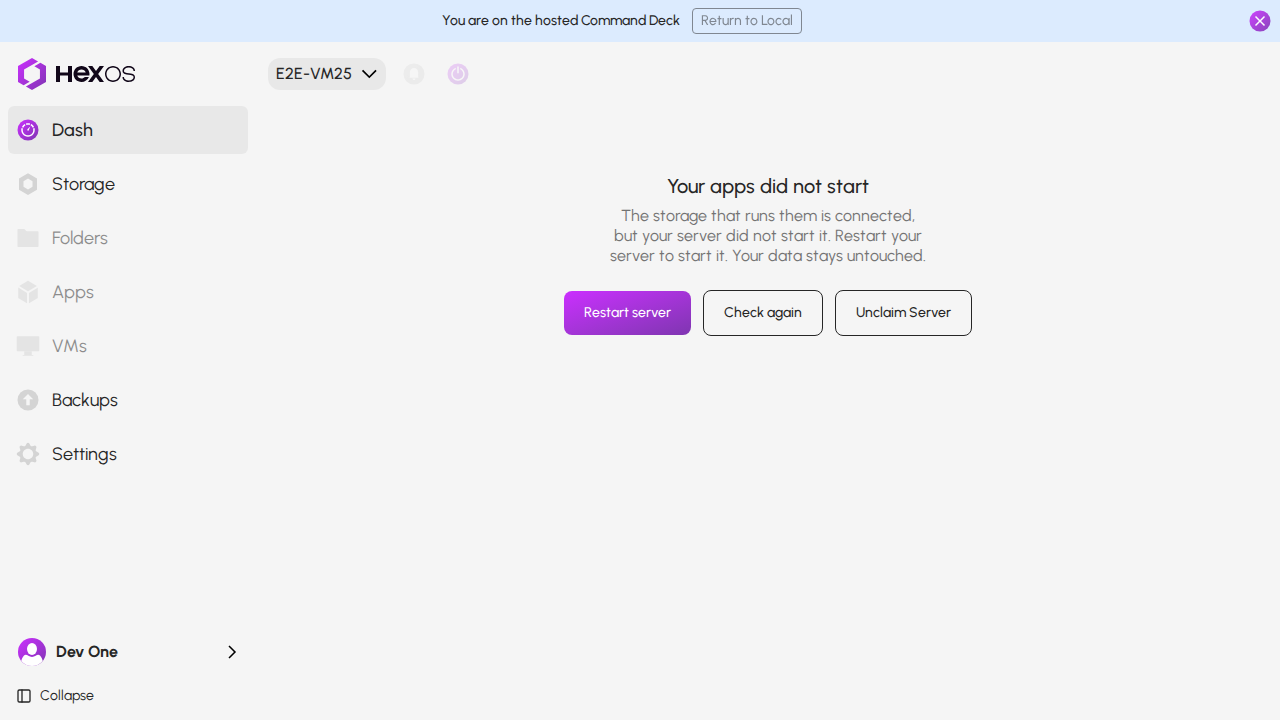
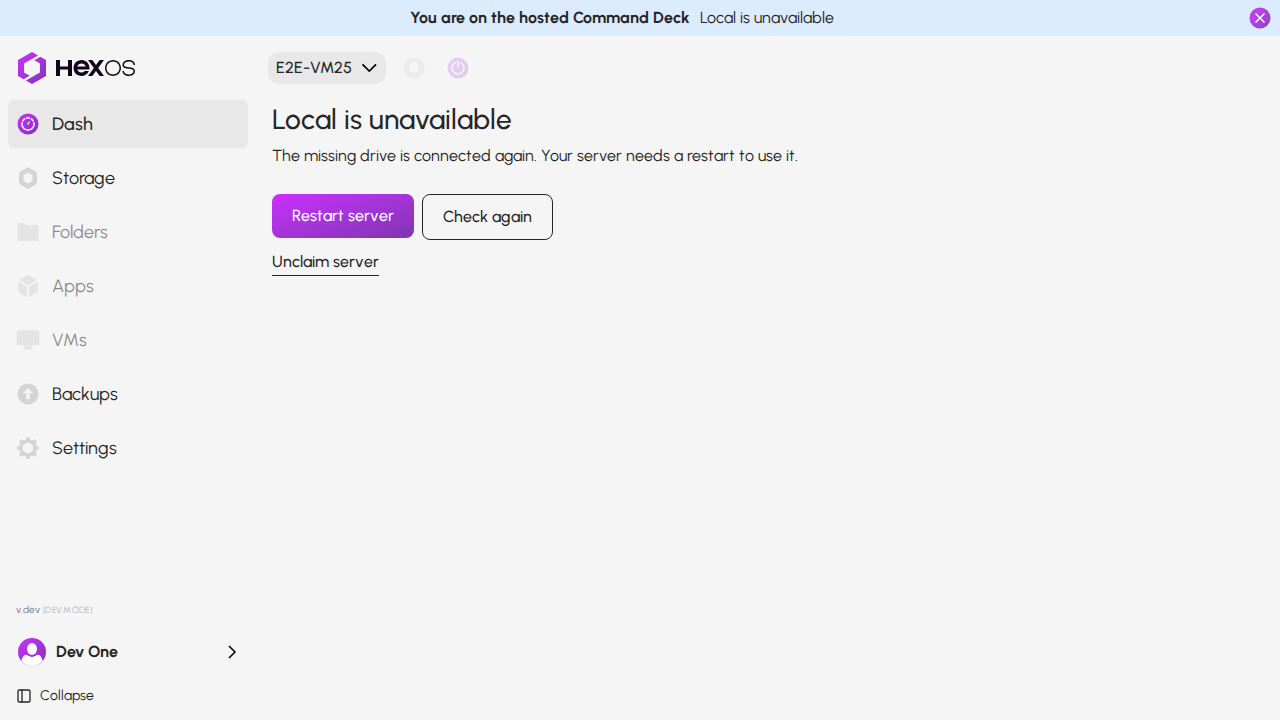
docs: Re-shoot the apps drive failure page for the design team's screens
The page follows platform PR #1984 and #1988: Local is unavailable with the drive card, Shut down server, Use another pool for apps, Restore apps and Switch apps location, one sentence when the drive is connected again, US dates. Ten screenshots re-shot from the lab on the final screens; four old ones removed. The app backups page points at Restore apps.

diff --git a/features/storage/apps-drive-failed.md b/features/storage/apps-drive-failed.md
@@ -2,7 +2,7 @@
 title: When the apps drive fails
 description: What HexOS shows when the drive that runs your apps is missing, and how to get your apps back
 published: true
-date: 2026-10-02T00:00:00.000Z
+date: 2026-10-05T00:00:00.000Z
 tags: storage, apps, drives, recovery, backups
 editor: markdown
 dateCreated: 2026-10-02T00:00:00.000Z
@@ -14,40 +14,54 @@ HexOS itself runs as an app on your apps drive. If that drive stops working, Hex
 
 ## What you see
 
-Open your server in the Command Deck. Instead of the dashboard, a page tells you what is wrong. It names the missing drive with its model, size and serial number, so you know which one to look at.
+Open your server in the Command Deck. Instead of the dashboard, a page with the heading **Local is unavailable** tells you what is wrong. A card named **The drive we're looking for** shows the missing drive's name, capacity and serial number, and the date it was last seen, so you know which drive to look at.
 
 <details>
-<summary> The drive that runs your apps is missing </summary>
+<summary> The apps drive is missing </summary>
 
 ![apps-drive-missing.png](/apps-drive-failed/apps-drive-missing.png){.medium .framed}
 </details>
 
 | What the page says | What it means |
 |---|---|
-| **The drive that runs your apps is missing** | Your server started without the drive. Often a cable or power connector came loose. |
-| **The drive that runs your apps is still missing** | A restart did not bring it back. The drive may have failed. |
-| **Your apps did not start** | The drive is there, but your server did not start the storage on it. |
+| **Your server couldn't find the drive where your apps are installed.** | Your server started without the drive. Often a cable or power connector came loose. |
+| **A restart did not bring it back. If the drive has failed, you should consider replacing it.** | The drive was still missing after a restart. It may have failed. |
+| **Your server did not start your apps. Please retry by restarting your server.** | The drive is there, but your server did not start the storage on it. |
+| **The missing drive is connected again. Your server needs a restart to use it.** | The drive came back while the server was on. Your server only starts its storage when it starts up. |
 | **Your server is starting up** | Wait. The page updates by itself. |
 
 <details>
-<summary> The drive that runs your apps is still missing </summary>
+<summary> The apps drive is still missing after a restart </summary>
 
 ![apps-drive-still-missing.png](/apps-drive-failed/apps-drive-still-missing.png){.medium .framed}
 </details>
 
 <details>
-<summary> Your apps did not start </summary>
+<summary> The missing drive is connected again </summary>
 
 ![apps-did-not-start.png](/apps-drive-failed/apps-did-not-start.png){.medium .framed}
 </details>
 
 ## Step 1: Check the drive
 
-Turn the server off. Check the drive's cable and power, then turn the server back on. The page updates by itself, or click **Check again**. If the drive comes back, your apps start again and nothing else is needed.
+1. Click **Shut down server**, then click **Shut down server** again to confirm. Your server turns off and stays off until you turn it back on.
+2. Check that the drive's cable and power connector are plugged in.
+3. Turn the server back on.
+
+<details>
+<summary> Shut down server </summary>
+
+![shut-down-server-confirm.png](/apps-drive-failed/shut-down-server-confirm.png){.medium .framed}
+</details>
+
+The page updates by itself, or click **Check again**. If the drive comes back, your apps start again and nothing else is needed.
+
+> **Info:** If a pool on your server is at risk, HexOS warns you before it shuts down or restarts the server. It can ask you to tick a box before you continue.
+{.is-info}
 
 ## Step 2: Restart the server
 
-If the page says **Your apps did not start**, every drive is there but the storage was not started. Click **Restart server**, then **Yes, restart now**. Your server is away for a few minutes while it restarts. Your data stays untouched.
+If the page says **Your server did not start your apps** or **The missing drive is connected again**, every drive is there but the storage was not started. Click **Restart server**, then click **Restart server** again to confirm. Your server is away for a few minutes while it restarts.
 
 <details>
 <summary> Restart server </summary>
@@ -55,44 +69,44 @@ If the page says **Your apps did not start**, every drive is there but the stora
 ![restart-server-confirm.png](/apps-drive-failed/restart-server-confirm.png){.medium .framed}
 </details>
 
-## Step 3: Run your apps from another pool
+## Step 3: Use another pool for your apps
 
-If the drive is still missing and you do not want to wait for a new one, you can run your apps from another pool. Click **Run apps from another pool**, choose a pool from the list, and click **Run apps from this pool**.
+If the drive is still missing and you do not want to wait for a new one, you can run your apps from another pool. Click **Use another pool for apps**, choose a pool from the list, and click **Confirm**.
 
 <details>
-<summary> Run apps from another pool </summary>
+<summary> Use another pool for apps </summary>
 
-![run-apps-from-another-pool.png](/apps-drive-failed/run-apps-from-another-pool.png){.medium .framed}
+![use-another-pool-for-apps.png](/apps-drive-failed/use-another-pool-for-apps.png){.medium .framed}
 </details>
 
-> **Info:** Your apps start empty on the pool you pick, and HexOS runs again. Nothing on the missing drive is changed. If you have an app backup, the next step puts your apps back.
+> **Info:** Your apps start empty on the pool you pick, and HexOS runs again. Nothing on the missing drive is changed. If you have an app backup, the next step restores your apps.
 {.is-info}
 
-## Step 4: Put your apps back
+## Step 4: Restore your apps
 
-If you have [app backups](/features/storage/app-backups), a card on the **Storage** screen says **Your apps can be put back**. It shows the date of the copy and which apps are in it. If the copy also holds virtual machines you chose to copy, it names them too.
+If you have [app backups](/features/storage/app-backups), a line at the top of the **Storage** screen says **HexOS has detected apps that can be restored.** The same message shows as a notification.
 
 <details>
-<summary> Your apps can be put back </summary>
+<summary> Apps that can be restored </summary>
 
-![apps-can-be-put-back.png](/apps-drive-failed/apps-can-be-put-back.png){.medium .framed}
+![apps-can-be-restored.png](/apps-drive-failed/apps-can-be-restored.png){.medium .framed}
 </details>
 
-1. Click **Put apps back**. If the copy holds virtual machines, the button says **Put apps and virtual machines back**.
-2. Check the list of apps and virtual machines that come back.
-3. Tick the box to confirm that they come back as they were on the date of the copy.
-4. Click the same button again to confirm. HexOS copies your apps and their data, sets them up again, and starts them.
+1. Click **Restore apps**. If the copy holds virtual machines, the button says **Restore apps and virtual machines**.
+2. Check the list of apps and virtual machines that are restored.
+3. Tick the box to confirm that changes made after the date of the copy are not included.
+4. Click **Restore apps** to confirm. HexOS copies your apps and their data, sets them up again, and starts them.
 
 <details>
-<summary> Putting your apps back </summary>
+<summary> Restore apps </summary>
 
-![put-apps-back-dialog.png](/apps-drive-failed/put-apps-back-dialog.png){.medium .framed}
+![restore-apps-dialog.png](/apps-drive-failed/restore-apps-dialog.png){.medium .framed}
 </details>
 
-Follow the progress in the activity center. The row shows each step as it happens.
+Follow the progress in the Activity Center. The row shows each step as it happens.
 
 <details>
-<summary> Putting your apps back in the activity center </summary>
+<summary> Restoring your apps in the Activity Center </summary>
 
 ![put-back-activity-row.png](/apps-drive-failed/put-back-activity-row.png){.medium .framed}
 </details>
@@ -105,15 +119,15 @@ When it finishes, the row lists anything you need to do yourself, such as an app
 ![put-back-results.png](/apps-drive-failed/put-back-results.png){.medium .framed}
 </details>
 
-> **Info:** Nothing on the pool is replaced. If an app cannot be set up safely, its data still comes back and the activity center tells you to install it again.
+> **Info:** Nothing on the pool is replaced. If an app cannot be set up safely, its data is still restored and the Activity Center tells you to install it again.
 {.is-info}
 
-> **Warning:** Some virtual machines come back but are not started, and do not start by themselves: for example one with a device passed to it from your server, or one with disks from two different days. The activity center names each one. Check it, then start it yourself.
+> **Warning:** Some virtual machines are restored but not started, and do not start by themselves: for example one with a device passed to it from your server, or one with disks from two different days. The Activity Center names each one. Check it, then start it yourself.
 {.is-warning}
 
 ## Step 5: Go back to your old apps drive
 
-If the drive that was missing comes back, and you had run your apps from another pool, a card says **Your apps drive is back**. Click the button with your old pool's name, for example **Use SSDs again**. In the dialog, tick the box and click the same button again. HexOS runs your apps from the old drive again, as they were when it went missing.
+If the drive that was missing comes back, and you had moved your apps to another pool, a line at the top of the **Storage** screen says **Your apps drive is back.** The same message shows as a notification.
 
 <details>
 <summary> Your apps drive is back </summary>
@@ -121,18 +135,22 @@ If the drive that was missing comes back, and you had run your apps from another
 ![apps-drive-is-back.png](/apps-drive-failed/apps-drive-is-back.png){.medium .framed}
 </details>
 
-<details>
-<summary> Going back to the old drive </summary>
+1. Click **Switch apps location**.
+2. Tick the box to confirm that the apps on the other pool will stop running.
+3. Click **Switch apps location** to confirm. HexOS runs your apps from the old drive again, as they were before it went missing.
 
-![use-old-pool-again-dialog.png](/apps-drive-failed/use-old-pool-again-dialog.png){.medium .framed}
+<details>
+<summary> Switch apps location </summary>
+
+![switch-apps-location-dialog.png](/apps-drive-failed/switch-apps-location-dialog.png){.medium .framed}
 </details>
 
-> **Warning:** The apps you ran from the other pool stop running when you go back. Their data stays on that pool.
+> **Warning:** The apps you added on the other pool stop running when you switch back. Their data stays on that pool.
 {.is-warning}
 
 ## Replace a failed drive
 
-If the drive has failed for good, replace it, then put your apps back from the copy. See [Drive failure](/troubleshooting/drive-failure).
+If the drive has failed for good, replace it, then restore your apps from the copy. See [Drive failure](/troubleshooting/drive-failure).
 
 > **Help:** Stuck at any step? Ask in the [HexOS Discord Community](https://discord.gg/fCW2htvYdz).
 {.is-troubleshooting}

diff --git a/features/storage/app-backups.md b/features/storage/app-backups.md
@@ -107,9 +107,9 @@ You can change your answer at any time. Open the virtual machine, click the **Op
 > **Info:** Some virtual machines cannot be copied: one with disks on more than one pool or in more than one folder, and one that shares a disk with another virtual machine. The card says why.
 {.is-info}
 
-## Put your apps back
+## Restore your apps
 
-If your apps drive fails, you can put your apps and the virtual machines you chose back from the copy. See [When the apps drive fails](/features/storage/apps-drive-failed).
+If your apps drive fails, you can restore your apps and the virtual machines you chose from the copy. See [When the apps drive fails](/features/storage/apps-drive-failed).
 
 > **Help:** Questions about app backups? Ask in the [HexOS Discord Community](https://discord.gg/fCW2htvYdz).
 {.is-troubleshooting}
